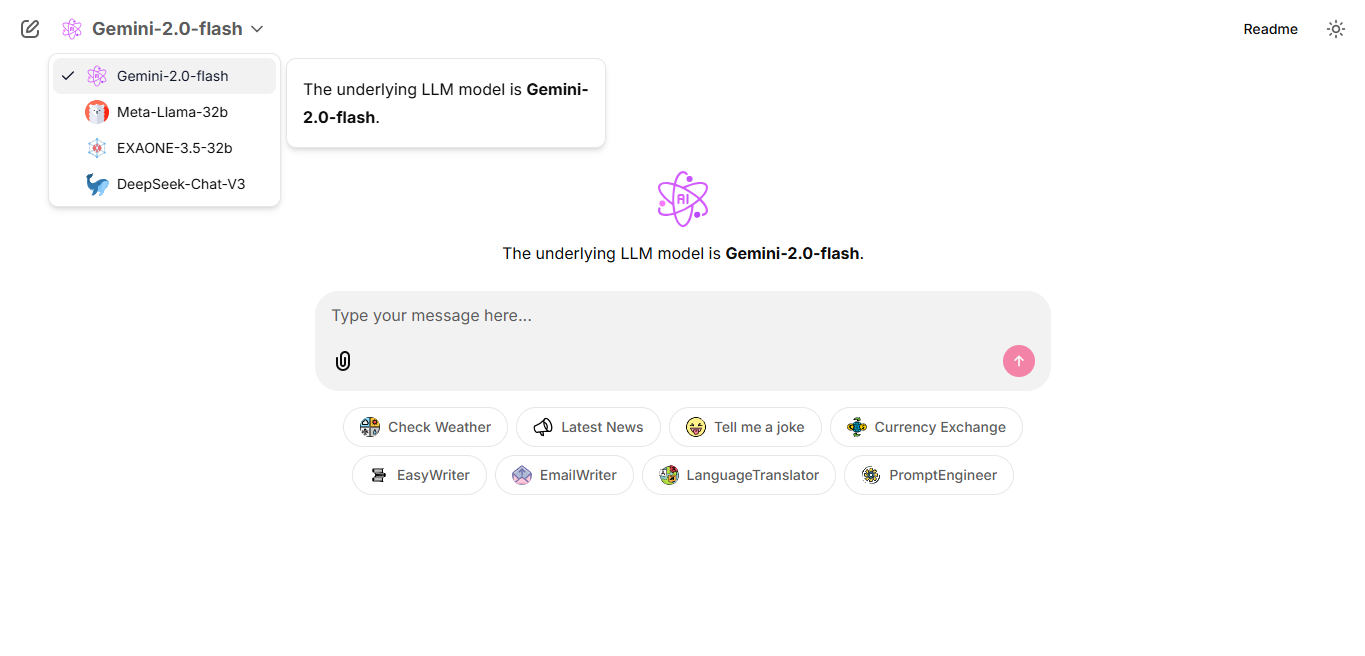
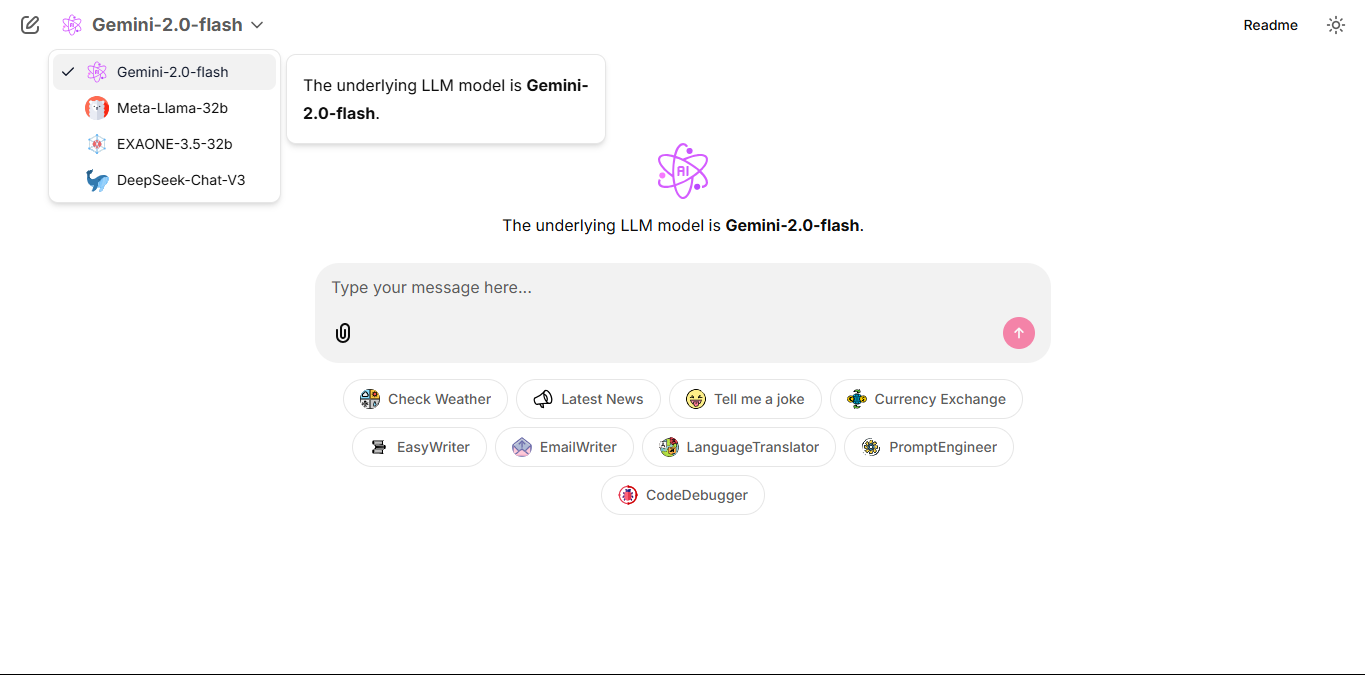
✨ added complete Chainlit-based assistant with tools and model switching in uv using openai sdk , ,gemini, aitogether and openrouter

diff --git a/main.py b/main.py
@@ -174,6 +174,11 @@ async def starter():
             label="PromptEngineer",
             message="Help Me Write a Better Prompt",
             icon="/public/engine.svg"
+        ),
+        cl.Starter(
+            label="CodeDebugger",
+            message="Debug the code and explain any issues or improvements.",
+            icon="/public/bug.svg"
         )
     ]
 
@@ -239,6 +244,7 @@ async def start():
             api_key=secrets.openrouter_api_key,
         )
         model_name = secrets.openrouter_model
+
     else:
         external_client = AsyncOpenAI(
             base_url=secrets.gemini_base_url,
@@ -301,6 +307,20 @@ async def start():
                     highly effective prompts for language models like GPT-4. Given any topic, your task 
                     is to craft the most clear, effective, and optimized prompt that will produce high-quality 
                     results from the model. Ask clarifying questions if needed.""",
+        model=OpenAIChatCompletionsModel(
+            openai_client=external_client,
+            model=model_name,
+        ),
+    )
+
+    code_debugger_agent=Agent(
+        name="CodeDubugger",
+        instructions="""
+                    You are a highly experienced software engineer with over 10 years of experience in debugging code. 
+                    Your job is to analyze the provided code, identify any bugs, errors, or potential improvements, and explain your findings clearly.
+                    You can work with any programming language unless specified otherwise. Always include concise explanations and suggest specific fixes or refactors.
+                    If the language or intent is unclear, ask for clarification before proceeding.
+                    """,
         model=OpenAIChatCompletionsModel(
             openai_client=external_client,
             model=model_name,
